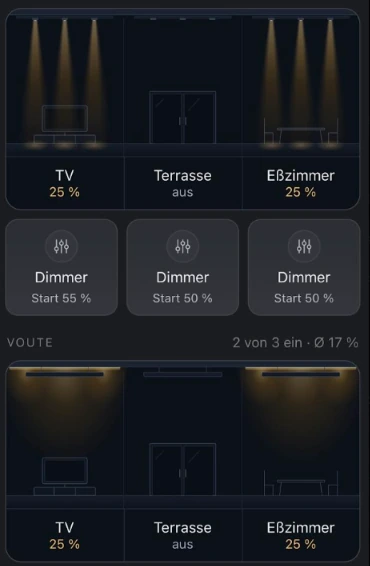
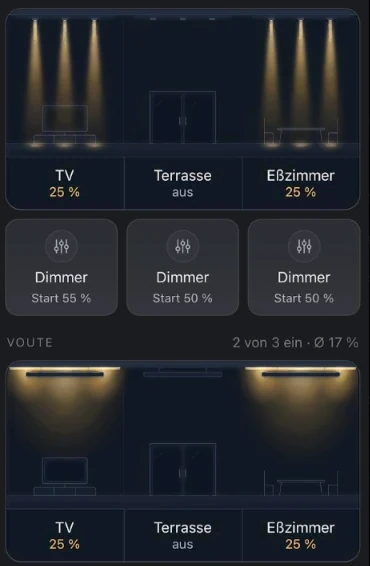
Webseite aktualisiert: index.html (1 Bild) (Martin, Webbank)

diff --git a/index.html b/index.html
@@ -621,11 +621,11 @@ footer a{color:var(--leise);text-decoration:none;margin-left:20px}
 </style>
 <style id="webbank-aussehen">:root{--marke:#0F5757;--marke-hell:#2F9E86;--firma:#104B96;--heim:#A05A22}
 html[data-modus="dunkel"]{--marke:#2F9E86;--marke-hell:#4CC2B4;--firma:#438EFF;--heim:#E0975C}
-section{padding:105px 0}
-@media(max-width:760px){section{padding:76px 0}}</style>
+section{padding:77px 0}
+@media(max-width:760px){section{padding:55px 0}}</style>
 </head>
 <body>
-<script type="application/json" id="webbank-bewegung">[{"wo":"body > div:nth-of-type(2) > div:nth-of-type(1) > div:nth-of-type(1) > ul:nth-of-type(1)","art":"links"}]</script>
+<script type="application/json" id="webbank-bewegung">[{"wo":"body > div:nth-of-type(2) > div:nth-of-type(1) > div:nth-of-type(1) > ul:nth-of-type(1)","art":"links"},{"wo":"#appBild > figure:nth-of-type(1) > div:nth-of-type(1) > div:nth-of-type(5) > div:nth-of-type(2)","art":"zoom"}]</script>
 
 <header>
 <div class="mitte kopf">
